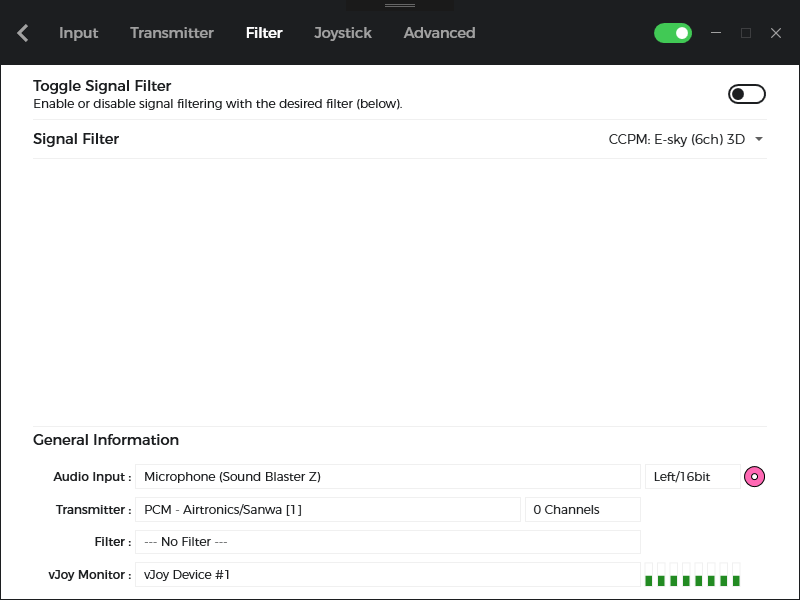
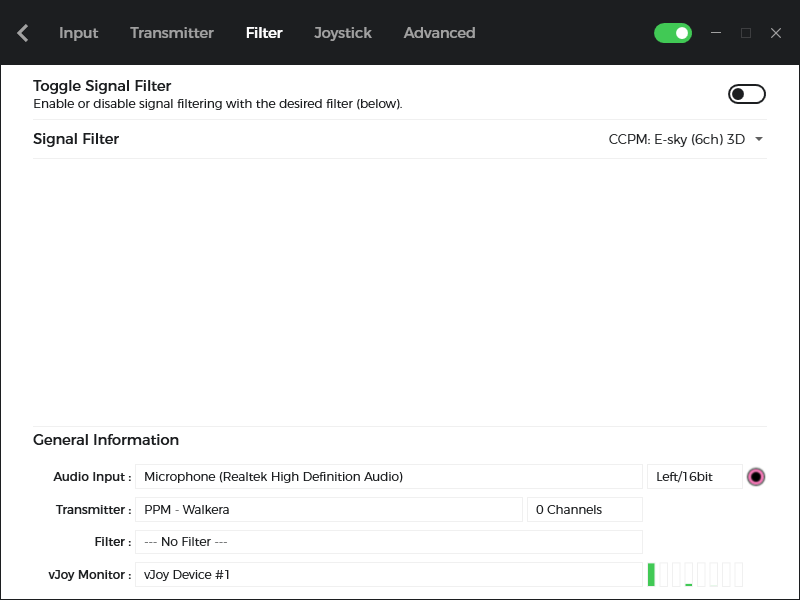
Added updated images. Changes to AudioHelper.

diff --git a/SharpPropoPlus/Views/Overview.xaml b/SharpPropoPlus/Views/Overview.xaml
@@ -62,7 +62,7 @@
 
         <TextBlock Grid.Column="0" Grid.Row="1" Margin="2 4" Padding="0" Text="Audio Input :" Style="{StaticResource TextBlockRightStyleKey}"></TextBlock>
         <Border Grid.Column="1" Grid.Row="1" Margin="2 4" BorderThickness="1" SnapsToDevicePixels="True" BorderBrush="#f0f0f0">
-            <TextBlock TextAlignment="Left" Text="{Binding DeviceName, Mode=OneWay}"/>
+            <TextBlock TextAlignment="Left" Text="{Binding Device.DeviceName, Mode=OneWay}"/>
         </Border>
         <Border Grid.Column="2" Grid.Row="1" Margin="2 4" BorderThickness="1" SnapsToDevicePixels="True" BorderBrush="#f0f0f0">
             <TextBlock TextAlignment="Left" >
@@ -88,14 +88,14 @@
             <Grid.Style>
                 <Style TargetType="{x:Type Grid}">
                     <Style.Triggers>
-                        <DataTrigger Binding="{Binding DeviceColor}" Value="{x:Null}">
+                        <DataTrigger Binding="{Binding Device.JackColor, Mode=OneWay}" Value="{x:Null}">
                             <Setter Property="Visibility" Value="Hidden"></Setter>
                         </DataTrigger>
                     </Style.Triggers>
                 </Style>
             </Grid.Style>
 
-            <Ellipse Fill="{Binding DeviceColor, Converter={StaticResource IntegerSolidColorBrushConverter}}"
+            <Ellipse Fill="{Binding Device.JackColor, Mode=OneWay, Converter={StaticResource IntegerSolidColorBrushConverter}}"
                      Height="16"
                      Width="16"
                      VerticalAlignment="Center"

diff --git a/SharpPropoPlus.Audio/AudioHelper.cs b/SharpPropoPlus.Audio/AudioHelper.cs
@@ -12,6 +12,7 @@ using CSCore.Streams;
 using CSCore.Win32;
 using SharpPropoPlus.Audio.Enums;
 using SharpPropoPlus.Audio.EventArguments;
+using SharpPropoPlus.Audio.Interfaces;
 using SharpPropoPlus.Audio.Models;
 using SharpPropoPlus.Contracts.EventArguments;
 using SharpPropoPlus.Events;
@@ -26,8 +27,8 @@ namespace SharpPropoPlus.Audio
         //private bool _quitPolling;
         private CancellationTokenSource _pollingCancellationTokenSource;
         private readonly MMDeviceEnumerator _deviceEnumerator;
-        private string _deviceId;
-        private string _deviceName;
+        //private string _deviceId;
+        private IAudioEndPoint _device;
         private readonly PeakValues _lastPeakValues;
         private static readonly object _sync = new object();
         private static volatile AudioHelper _instance;
@@ -61,8 +62,8 @@ namespace SharpPropoPlus.Audio
 
             _currentDevice = GetDefaultDevice();
 
-            DeviceId = _currentDevice.DeviceID;
-            DeviceName = _currentDevice.FriendlyName;
+            //DeviceId = _currentDevice.DeviceID;
+            Device = new AudioEndPoint(_currentDevice.FriendlyName, _currentDevice.DeviceID, GetDeviceFormat(_currentDevice).Channels, _currentDevice.DeviceState != DeviceState.Active, (int?)((_currentDevice.GetJackDescriptions()?.FirstOrDefault())?.Color)?.Value); ;
 
             _isStartUp = false;
         }
@@ -153,17 +154,17 @@ namespace SharpPropoPlus.Audio
             }
         }
 
-        public string DeviceName
+        public IAudioEndPoint Device
         {
-            get { return _deviceName; }
-            private set { _deviceName = value; }
+            get { return _device; }
+            private set { _device = value; }
         }
 
-        public string DeviceId
-        {
-            get { return _deviceId; }
-            private set { _deviceId = value; }
-        }
+        //public string DeviceId
+        //{
+        //    get { return _deviceId; }
+        //    private set { _deviceId = value; }
+        //}
 
         public AudioChannel Channel
         {
@@ -259,65 +260,19 @@ namespace SharpPropoPlus.Audio
             return new WaveFormat();
         }
 
-        private void StartRecording(MMDevice device)
+        private void StartRecording(MMDevice mmDevice)
         {
 
             StopRecording();
 
-            if (device == null || device.DataFlow != DataFlow.Capture)
-                throw new ArgumentNullException(nameof(device), "Selected Audio device is invalid.");
+            if (mmDevice == null || mmDevice.DataFlow != DataFlow.Capture)
+                throw new ArgumentNullException(nameof(mmDevice), "Selected Audio device is invalid.");
 
-            DeviceId = device.DeviceID;
-            DeviceName = device.FriendlyName;
+            Device = new AudioEndPoint(mmDevice.FriendlyName, mmDevice.DeviceID, GetDeviceFormat(mmDevice).Channels, mmDevice.DeviceState != DeviceState.Active, (int?)((mmDevice.GetJackDescriptions()?.FirstOrDefault())?.Color)?.Value);
 
-            //for (var i = 0; i < device.Properties.Count; i++)
-            //{
-            //  object value = null;
-            //  try
-            //  {
-            //    value = device.Properties[i].Value;
-            //  }
-            //  catch (Exception)
-            //  {
-            //    value = null;
-            //  }
+            var deviceFormat = GetDeviceFormat(mmDevice);
 
-            //  if (value != null && value.GetType() == typeof(byte[]))
-            //  {
-            //    if (((byte[]) value).Any())
-            //    {
-            //      value = string.Join(":", ((byte[])value).Select(s => $"{s:X}"));
-
-            //    }
-            //    else
-            //    {
-            //      value = null;
-            //    }
-            //  }
-            //  Debug.WriteLine("{0}: {1}\n\t{2}", i, device.Properties[i].Key.formatId, value);
-            //}
-
-
-            //device.AudioEndpointVolume.OnVolumeNotification += delegate(AudioVolumeNotificationData data)
-            //{
-            //  GlobalEventAggregator.Instance.SendMessage(new PeakValueEventArgs(new PeakValues(data.Muted, data.MasterVolume, data.ChannelVolume[0], data.ChannelVolume[1])));
-            //};
-
-
-            //var x = _deviceEnumerator.EnumerateAudioEndPoints(DataFlow.Capture, DeviceState.All)
-            //  .FirstOrDefault(w => w.ID == _deviceId);
-
-
-
-            //deviceFormat = new WaveFormat(192000, 16, deviceFormat.Channels);
-
-            var deviceFormat = GetDeviceFormat(device);
-
-            //var channels = deviceFormat.Channels;
-
-            var jackDescription = device.GetJackDescriptions()?.FirstOrDefault();
-
-            var audioEndPointArgs = new AudioEndPointEventArgs(device.FriendlyName, device.DeviceID, deviceFormat.Channels, device.DeviceState != DeviceState.Active, (int?)(jackDescription?.Color)?.Value);
+            var audioEndPointArgs = new AudioEndPointEventArgs(Device.DeviceName, Device.DeviceId, deviceFormat.Channels, Device.Disabled, Device.JackColor);
             AudioEndPointChanged?.Invoke(this, audioEndPointArgs);
             GlobalEventAggregator.Instance.SendMessage(audioEndPointArgs);
 
@@ -325,12 +280,11 @@ namespace SharpPropoPlus.Audio
                 new WasapiCapture(false, AudioClientShareMode.Shared, 0, deviceFormat,
                     ThreadPriority.Highest)
                 {
-                    Device = device
+                    Device = mmDevice
                 };
 
             _soundIn.Initialize();
 
-            //var soundInSource = new SoundInSource(_soundIn);
             SoundInSource soundInSource = new SoundInSource(_soundIn)
             {
                 FillWithZeros = false
@@ -346,9 +300,6 @@ namespace SharpPropoPlus.Audio
 
             //byte[] buffer = new byte[_finalSource.WaveFormat.BytesPerSecond / 2];
             soundInSource.DataAvailable += SoundInSourceOnDataAvailable;
-
-
-            //singleBlockNotificationStream.SingleBlockRead += SingleBlockNotificationStreamOnSingleBlockRead;
 
             _soundIn.Start();
 

diff --git a/SharpPropoPlus/ViewModels/OverviewViewModel.cs b/SharpPropoPlus/ViewModels/OverviewViewModel.cs
@@ -4,6 +4,7 @@ using System.Linq;
 using SharpPropoPlus.Audio;
 using SharpPropoPlus.Audio.Enums;
 using SharpPropoPlus.Audio.EventArguments;
+using SharpPropoPlus.Audio.Interfaces;
 using SharpPropoPlus.Contracts.Enums;
 using SharpPropoPlus.Contracts.EventArguments;
 using SharpPropoPlus.Decoder;
@@ -20,7 +21,7 @@ namespace SharpPropoPlus.ViewModels
     public class OverviewViewModel : BaseViewModel
     {
         private string _prefferedChannel = string.Empty;
-        private string _deviceName = string.Empty;
+        private IAudioEndPoint _device = null;
         private int _rawChannels;
         private string _joystickName = string.Empty;
         private string _decoderName;
@@ -56,7 +57,7 @@ namespace SharpPropoPlus.ViewModels
             FilterDescription = currentFilter.Description;
             IsFilterEnabled = Application.Instance.FilterManager.IsEnabled;
 
-            DeviceName = AudioHelper.Instance.DeviceName;
+            Device = AudioHelper.Instance.Device;
             JoystickName = JoystickInteraction.Instance.CurrentDevice.Name;
 
             ChannelData = new ObservableCollection<IJoystickChannelData>()
@@ -227,8 +228,7 @@ namespace SharpPropoPlus.ViewModels
             if (args == null)
                 return;
 
-            DeviceName = args.DeviceName;
-            DeviceColor = args.DeviceColor;
+            Device = args;
         }
 
         private void PrefferedChannelListner(PreferredChannelEventArgs args)
@@ -239,30 +239,16 @@ namespace SharpPropoPlus.ViewModels
             PrefferedChannel = args.Channel.ToString();
         }
 
-        public string DeviceName
+        public IAudioEndPoint Device
         {
-            get => _deviceName;
+            get => _device;
 
             private set
             {
-                if (_deviceName == value)
+                if (_device == value)
                     return;
 
-                _deviceName = value;
-                OnPropertyChanged();
-            }
-        }
-
-        public int? DeviceColor
-        {
-            get => _deviceColor;
-
-            private set
-            {
-                if (_deviceColor == value)
-                    return;
-
-                _deviceColor = value;
+                _device = value;
                 OnPropertyChanged();
             }
         }

diff --git a/SharpPropoPlus.Audio/Models/AudioEndPoint.cs b/SharpPropoPlus.Audio/Models/AudioEndPoint.cs
@@ -4,15 +4,15 @@ namespace SharpPropoPlus.Audio.Models
 {
     public class AudioEndPoint : IAudioEndPoint
     {
-        public int? DeviceColor { get; }
+        public int? JackColor { get; internal set; }
 
-        public string DeviceName { get; }
+        public string DeviceName { get; internal set; }
 
-        public string DeviceId { get; }
+        public string DeviceId { get; internal set; }
 
-        public int Channels { get; }
+        public int Channels { get; internal set; }
 
-        public bool Disabled { get; }
+        public bool Disabled { get; internal set; }
 
         public AudioEndPoint(string deviceName, string deviceId, int channels, bool disabled, int? deviceColor)
         {
@@ -20,7 +20,7 @@ namespace SharpPropoPlus.Audio.Models
             DeviceId = deviceId;
             Channels = channels;
             Disabled = disabled;
-            DeviceColor = deviceColor;
+            JackColor = deviceColor;
         }
     }
 }

diff --git a/SharpPropoPlus.Audio/EventArguments/DeviceInfoEventArgs.cs b/SharpPropoPlus.Audio/EventArguments/DeviceInfoEventArgs.cs
@@ -5,15 +5,15 @@ namespace SharpPropoPlus.Audio.EventArguments
 {
     public class AudioEndPointEventArgs : EventArgs, IAudioEndPoint
     {
-        public string DeviceName { get; }
+        public string DeviceName { get; internal set; }
 
-        public string DeviceId { get; }
+        public string DeviceId { get; internal set; }
 
-        public int Channels { get; }
+        public int Channels { get; internal set; }
 
-        public bool Disabled { get; }
+        public bool Disabled { get; internal set; }
 
-        public int? DeviceColor { get; }
+        public int? JackColor { get; internal set; }
 
         public AudioEndPointEventArgs()
         {
@@ -26,7 +26,7 @@ namespace SharpPropoPlus.Audio.EventArguments
             DeviceId = deviceId;
             Channels = channels;
             Disabled = disabled;
-            DeviceColor = deviceColor;
+            JackColor = deviceColor;
         }
     }
 }

diff --git a/SharpPropoPlus/ViewModels/AudioConfigViewModel.cs b/SharpPropoPlus/ViewModels/AudioConfigViewModel.cs
@@ -40,7 +40,7 @@ namespace SharpPropoPlus.ViewModels
                 new ReadOnlyObservableCollection<AudioEndPoint>(new ObservableCollection<AudioEndPoint>(AudioHelper.Instance.Devices));
 
             SelectedAudioEndPoint =
-                AudioEndPointCollection.FirstOrDefault(fd => fd.DeviceId == AudioHelper.Instance.DeviceId);
+                AudioEndPointCollection.FirstOrDefault(fd => fd.DeviceId == AudioHelper.Instance.Device.DeviceId);
 
             _selectedBitrateItem = AudioHelper.Instance.Bitrate;
             _selectedChannelItem = AudioHelper.Instance.Channel;

diff --git a/SharpPropoPlus.Audio/Interfaces/IAudioEndPoint.cs b/SharpPropoPlus.Audio/Interfaces/IAudioEndPoint.cs
@@ -6,5 +6,6 @@ namespace SharpPropoPlus.Audio.Interfaces
         string DeviceId { get; }
         int Channels { get; }
         bool Disabled { get; }
+        int? JackColor { get; }
     }
 }
